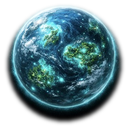
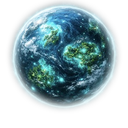
Re-crop planet sprites: auto-detect center, tighter mask, no black edges
Uses brightness detection to find actual planet bounds,
crops 12% tighter with 4px Gaussian blur feathering.

https://claude.ai/code/session_01PBir98Ya7NdR4RQoY2zhNx

Changed region(s): [[0.0312, 0.0, 0.9688, 0.9688], [0.25, 0.1562, 0.2812, 0.1875]]

diff --git a/orbita-web/_expo/static/js/web/index-305c4bb69cac22a558a0af5c1d3144f3.js b/orbita-web/_expo/static/js/web/index-305c4bb69cac22a558a0af5c1d3144f3.js
@@ -700,12 +700,12 @@ __d(function(g,r,_i,_a,m,e,d){"use strict";Object.defineProperty(e,'__esModule',
 __d(function(g,r,i,a,m,_e,d){"use strict";function e(e){return e&&e.__esModule?e:{default:e}}Object.defineProperty(_e,'__esModule',{value:!0}),Object.defineProperty(_e,"StarCore",{enumerable:!0,get:function(){return S}});var t=r(d[0]),o=e(r(d[1])),s=r(d[2]),n=e(s),l=r(d[3]),c=e(l),u=r(d[4]),p=r(d[5]);const f={code:"function StarCoreTsx1(){const{centerX,displaySize,centerY,scale}=this.__closure;return{transform:[{translateX:centerX-displaySize/2},{translateY:centerY-displaySize/2},{scale:scale.value}]};}"},h={code:"function StarCoreTsx2(){const{centerX,displaySize,centerY,phase,glowScale}=this.__closure;return{position:'absolute',left:centerX-displaySize*0.75,top:centerY-displaySize*0.75,width:displaySize*1.5,height:displaySize*1.5,borderRadius:displaySize*0.75,backgroundColor:phase.glowColor,opacity:0.15,transform:[{scale:glowScale.value}]};}"},S=({centerX:e,centerY:o,timeRatio:S})=>{const w=(0,s.useSharedValue)(1.3),_=(0,s.useSharedValue)(1),C=(0,u.getStarPhase)(S);(0,t.useEffect)(()=>{const e=S>.5?.12:S>.2?.08:.15,t=S>.5?1800:S>.2?800:300,o=S>.5?2200:S>.2?1e3:400;w.value=(0,s.withRepeat)((0,s.withSequence)((0,s.withTiming)(C.scale+e,{duration:t,easing:s.Easing.inOut(s.Easing.ease)}),(0,s.withTiming)(C.scale-.5*e,{duration:o,easing:s.Easing.inOut(s.Easing.ease)})),-1,!0)},[Math.round(10*S)]),(0,t.useEffect)(()=>{const e=S>.5?.15:.08,t=S>.5?3e3:1500;_.value=(0,s.withRepeat)((0,s.withSequence)((0,s.withTiming)(1+e,{duration:t,easing:s.Easing.inOut(s.Easing.ease)}),(0,s.withTiming)(1-.3*e,{duration:.8*t,easing:s.Easing.inOut(s.Easing.ease)})),-1,!0)},[Math.round(5*S)]);const x=2*u.STAR_SIZE,j=(0,s.useAnimatedStyle)((function(){const t=()=>({transform:[{translateX:e-x/2},{translateY:o-x/2},{scale:w.value}]});return t.__closure={centerX:e,displaySize:x,centerY:o,scale:w},t.__workletHash=3852345038859,t.__initData=f,t})());(0,s.useAnimatedStyle)((function(){const t=()=>({position:'absolute',left:e-.75*x,top:o-.75*x,width:1.5*x,height:1.5*x,borderRadius:.75*x,backgroundColor:C.glowColor,opacity:.15,transform:[{scale:_.value}]});return t.__closure={centerX:e,displaySize:x,centerY:o,phase:C,glowScale:_},t.__workletHash=7692941488591,t.__initData=h,t})());return(0,p.jsx)(p.Fragment,{children:(0,p.jsx)(n.default.View,{style:[y.container,j,{width:x,height:x}],pointerEvents:"none",children:(0,p.jsxs)(c.default,{width:x,height:x,children:[(0,p.jsx)(l.Defs,{children:(0,p.jsxs)(l.RadialGradient,{id:"starGrad",cx:"50%",cy:"50%",r:"50%",children:[(0,p.jsx)(l.Stop,{offset:"0%",stopColor:"#ffffff",stopOpacity:"1"}),(0,p.jsx)(l.Stop,{offset:"15%",stopColor:C.color,stopOpacity:"1"}),(0,p.jsx)(l.Stop,{offset:"35%",stopColor:C.color,stopOpacity:"0.8"}),(0,p.jsx)(l.Stop,{offset:"55%",stopColor:C.glowColor,stopOpacity:"0.4"}),(0,p.jsx)(l.Stop,{offset:"75%",stopColor:C.glowColor,stopOpacity:"0.1"}),(0,p.jsx)(l.Stop,{offset:"100%",stopColor:C.glowColor,stopOpacity:"0"})]})}),(0,p.jsx)(l.Circle,{cx:x/2,cy:x/2,r:x/2,fill:"url(#starGrad)"})]})})})},y=o.default.create({container:{position:'absolute'}})},613,[36,44,302,583,611,352]);
 __d(function(g,r,_i,a,m,_e,d){"use strict";Object.defineProperty(_e,'__esModule',{value:!0}),Object.defineProperty(_e,"OrbitalRings",{enumerable:!0,get:function(){return i}}),r(d[0]);var t,e=r(d[1]),o=(t=e)&&t.__esModule?t:{default:t},n=r(d[2]),s=r(d[3]);const i=({centerX:t,centerY:i,width:l,height:c,activeSpokeAngle:u})=>{const f=new Set;for(const t of n.ORBIT_CONFIGS)for(let e=0;e<t.slotCount;e++)f.add(360*e/t.slotCount);const h=n.ORBIT_CONFIGS[n.ORBIT_CONFIGS.length-1].radius+30;return(0,s.jsxs)(o.default,{width:l,height:c,style:{position:'absolute',top:0,left:0},children:[Array.from(f).map(o=>{const n=o*Math.PI/180,l=null!=u&&Math.abs(o-u)<6;return(0,s.jsx)(e.Line,{x1:t,y1:i,x2:t+h*Math.cos(n),y2:i+h*Math.sin(n),stroke:l?'#ffd700':'rgba(255, 215, 0, 0.1)',strokeWidth:l?2:.5},`spoke-${o}`)}),n.ORBIT_CONFIGS.map((o,n)=>(0,s.jsx)(e.Circle,{cx:t,cy:i,r:o.radius,fill:"none",stroke:"rgba(255, 255, 255, 0.15)",strokeWidth:1},`orbit-${n}`))]})}},614,[36,583,611,352]);
 __d(function(g,r,i,a,m,_e,d){"use strict";function e(e){return e&&e.__esModule?e:{default:e}}Object.defineProperty(_e,'__esModule',{value:!0}),Object.defineProperty(_e,"PlanetView",{enumerable:!0,get:function(){return E}});var t=r(d[0]),n=e(r(d[1])),s=e(r(d[2])),l=r(d[3]),o=e(l),u=r(d[4]),c=r(d[5]),h=r(d[6]);const p={planet_red:r(d[7]),planet_green:r(d[8]),planet_blue:r(d[9]),planet_gold:r(d[10]),planet_pink:r(d[11]),planet_purple:r(d[12])},w={code:"function PlanetViewTsx1(){const{translateX,translateY,scaleVal,opacityVal}=this.__closure;return{transform:[{translateX:translateX.value},{translateY:translateY.value},{scale:scaleVal.value}],opacity:opacityVal.value};}"},_={code:"function PlanetViewTsx2(){const{glowOpacity}=this.__closure;return{opacity:glowOpacity.value};}"},f={code:"function PlanetViewTsx3(){const{spinRotation}=this.__closure;return{transform:[{rotate:spinRotation.value+\"deg\"}]};}"},E=({planet:e,centerX:n,centerY:E,rotationAngle:T,isSelected:S,isRemoving:y,isNew:I,isMatchable:x,isCollected:P,onTap:V})=>{const b=u.PLANET_CONFIGS[e.type],A=(0,c.getSlotPosition)(e.orbitIndex,e.slotIndex,n,E,T),N=(0,l.useSharedValue)(A.x-u.PLANET_SIZE/2),L=(0,l.useSharedValue)(A.y-u.PLANET_SIZE/2),Z=(0,l.useSharedValue)(I?0:1),R=(0,l.useSharedValue)(1),O=(0,l.useSharedValue)(0),j=(0,l.useSharedValue)(0);(0,t.useEffect)(()=>{const t=parseInt(e.id.replace('p',''),10)||1,n=8e3+t%7*1e3,s=t%2==0?360:-360;j.value=(0,l.withRepeat)((0,l.withTiming)(s,{duration:n,easing:l.Easing.linear}),-1,!1)},[e.id]);const C=(0,t.useRef)(e.orbitIndex),X=(0,t.useRef)(e.slotIndex);(0,t.useEffect)(()=>{const t=C.current!==e.orbitIndex||X.current!==e.slotIndex;C.current=e.orbitIndex,X.current=e.slotIndex;const n=A.x-u.PLANET_SIZE/2,s=A.y-u.PLANET_SIZE/2;t?(O.value=(0,l.withSequence)((0,l.withTiming)(1,{duration:100}),(0,l.withTiming)(1,{duration:400}),(0,l.withTiming)(0,{duration:200})),Z.value=(0,l.withSequence)((0,l.withTiming)(.7,{duration:100,easing:l.Easing.in(l.Easing.ease)}),(0,l.withTiming)(1.2,{duration:300,easing:l.Easing.out(l.Easing.ease)}),(0,l.withSpring)(1,{damping:8,stiffness:150})),N.value=(0,l.withTiming)(n,{duration:500,easing:l.Easing.bezier(.25,.1,.25,1)}),L.value=(0,l.withTiming)(s,{duration:500,easing:l.Easing.bezier(.25,.1,.25,1)})):(N.value=n,L.value=s)},[A.x,A.y,e.orbitIndex,e.slotIndex]),(0,t.useEffect)(()=>{S?(Z.value=(0,l.withSpring)(1.15,{damping:12}),O.value=(0,l.withTiming)(.8,{duration:200})):y||I||P||(Z.value=(0,l.withSpring)(1,{damping:12}),O.value=(0,l.withTiming)(0,{duration:200}))},[S]),(0,t.useEffect)(()=>{S||P||y||(O.value=(0,l.withTiming)(0,{duration:200}))},[S,P,y]),(0,t.useEffect)(()=>{P&&(Z.value=(0,l.withSpring)(1.25,{damping:10}),O.value=(0,l.withTiming)(1,{duration:100}))},[P]),(0,t.useEffect)(()=>{y&&(Z.value=(0,l.withTiming)(1.5,{duration:300,easing:l.Easing.out(l.Easing.ease)}),R.value=(0,l.withTiming)(0,{duration:400}))},[y]),(0,t.useEffect)(()=>{I&&(R.value=0,Z.value=0,R.value=(0,l.withDelay)(400,(0,l.withTiming)(1,{duration:300})),Z.value=(0,l.withDelay)(400,(0,l.withSpring)(1,{damping:10,stiffness:120})))},[I]);const Y=(0,l.useAnimatedStyle)((function(){const e=()=>({transform:[{translateX:N.value},{translateY:L.value},{scale:Z.value}],opacity:R.value});return e.__closure={translateX:N,translateY:L,scaleVal:Z,opacityVal:R},e.__workletHash=3929405362686,e.__initData=w,e})()),k=(0,l.useAnimatedStyle)((function(){const e=()=>({opacity:O.value});return e.__closure={glowOpacity:O},e.__workletHash=495692607085,e.__initData=_,e})()),D=(0,l.useAnimatedStyle)((function(){const e=()=>({transform:[{rotate:`${j.value}deg`}]});return e.__closure={spinRotation:j},e.__workletHash=3384046141303,e.__initData=f,e})()),M=p[b.sprite];return(0,h.jsxs)(o.default.View,{style:[v.planetContainer,Y],children:[(0,h.jsx)(o.default.View,{style:[v.glow,{backgroundColor:b.color,shadowColor:b.color},k]}),(0,h.jsx)(o.default.View,{style:D,children:(0,h.jsx)(s.default,{source:M,style:v.planetImage,resizeMode:"cover"})})]})},v=n.default.create({planetContainer:{position:'absolute',width:u.PLANET_SIZE,height:u.PLANET_SIZE,justifyContent:'center',alignItems:'center'},planetImage:{width:u.PLANET_SIZE,height:u.PLANET_SIZE,borderRadius:u.PLANET_SIZE/2},glow:{position:'absolute',width:u.PLANET_SIZE+16,height:u.PLANET_SIZE+16,borderRadius:(u.PLANET_SIZE+16)/2,opacity:0,shadowOffset:{width:0,height:0},shadowOpacity:1,shadowRadius:8,elevation:8}})},615,[36,44,176,302,611,612,352,616,617,618,619,620,621]);
-__d(function(g,r,i,a,m,e,d){m.exports={uri:"/PATRIOTS/orbita-web/assets/assets/planet_red.d8aa18ee1c9f9bb313217dbb454cd959.png",width:128,height:128}},616,[]);
-__d(function(g,r,i,a,m,e,d){m.exports={uri:"/PATRIOTS/orbita-web/assets/assets/planet_green.afaf0b4114ce2d40e47d9a3c2a4c39c2.png",width:128,height:128}},617,[]);
-__d(function(g,r,i,a,m,e,d){m.exports={uri:"/PATRIOTS/orbita-web/assets/assets/planet_blue.fe18db6285a19934b58350dc92bd0161.png",width:128,height:128}},618,[]);
-__d(function(g,r,i,a,m,e,d){m.exports={uri:"/PATRIOTS/orbita-web/assets/assets/planet_gold.972234e1780b710f61460b01ec40d408.png",width:128,height:128}},619,[]);
-__d(function(g,r,i,a,m,e,d){m.exports={uri:"/PATRIOTS/orbita-web/assets/assets/planet_pink.cc676eeadaac4e34b0664794ebf7d298.png",width:128,height:128}},620,[]);
-__d(function(g,r,i,a,m,e,d){m.exports={uri:"/PATRIOTS/orbita-web/assets/assets/planet_purple.92e26862746d73bdef989d7c18c10f14.png",width:128,height:128}},621,[]);
+__d(function(g,r,i,a,m,e,d){m.exports={uri:"/PATRIOTS/orbita-web/assets/assets/planet_red.ae335ffbfde4b92c5aa32fa1497b621f.png",width:128,height:128}},616,[]);
+__d(function(g,r,i,a,m,e,d){m.exports={uri:"/PATRIOTS/orbita-web/assets/assets/planet_green.bf009b3347f29a2c4719fec06b3c57d1.png",width:128,height:128}},617,[]);
+__d(function(g,r,i,a,m,e,d){m.exports={uri:"/PATRIOTS/orbita-web/assets/assets/planet_blue.c292ca8babff74ca34d07eb3ea8e4ed3.png",width:128,height:128}},618,[]);
+__d(function(g,r,i,a,m,e,d){m.exports={uri:"/PATRIOTS/orbita-web/assets/assets/planet_gold.07acb73ddf343204b82ad747fc96df08.png",width:128,height:128}},619,[]);
+__d(function(g,r,i,a,m,e,d){m.exports={uri:"/PATRIOTS/orbita-web/assets/assets/planet_pink.37bcc6a28bbcdd98ae9d89c64e051df6.png",width:128,height:128}},620,[]);
+__d(function(g,r,i,a,m,e,d){m.exports={uri:"/PATRIOTS/orbita-web/assets/assets/planet_purple.2ce8436d75034b3a8aeffed49e9ccdf3.png",width:128,height:128}},621,[]);
 __d(function(g,_r,_i,a,m,_e,d){"use strict";function e(e){return e&&e.__esModule?e:{default:e}}Object.defineProperty(_e,'__esModule',{value:!0}),Object.defineProperty(_e,"PowerUpPanel",{enumerable:!0,get:function(){return x}});var t=_r(d[0]),r=e(t),o=e(_r(d[1])),s=e(_r(d[2])),n=e(_r(d[3])),i=e(_r(d[4])),l=_r(d[5]),c=e(l),u=_r(d[6]),p=e(u),h=_r(d[7]),f=_r(d[8]);const b=({type:e,size:t})=>{const o=t/2;switch(e){case h.PowerUpType.STAR_FREEZE:return(0,f.jsxs)(p.default,{width:t,height:t,children:[[0,60,120].map(e=>{const t=e*Math.PI/180,s=Math.cos(t),n=Math.sin(t),i=.8*o;return(0,f.jsxs)(r.default.Fragment,{children:[(0,f.jsx)(u.Line,{x1:o-i*s,y1:o-i*n,x2:o+i*s,y2:o+i*n,stroke:"#3498db",strokeWidth:2}),(0,f.jsx)(u.Line,{x1:o+.5*i*s,y1:o+.5*i*n,x2:o+.5*i*s+4*Math.cos(t+.8),y2:o+.5*i*n+4*Math.sin(t+.8),stroke:"#3498db",strokeWidth:1.5})]},e)}),(0,f.jsx)(u.Circle,{cx:o,cy:o,r:2,fill:"#3498db"})]});case h.PowerUpType.NOVA_PULSE:{const e=[];for(let t=0;t<12;t++){const r=t%2==0?.9*o:.4*o,s=(30*t-90)*(Math.PI/180);e.push(`${o+r*Math.cos(s)},${o+r*Math.sin(s)}`)}return(0,f.jsx)(p.default,{width:t,height:t,children:(0,f.jsx)(u.Polygon,{points:e.join(' '),fill:"#f1c40f"})})}case h.PowerUpType.ANTIGRAVITY:return(0,f.jsxs)(p.default,{width:t,height:t,children:[(0,f.jsx)(u.Path,{d:`M ${o-6} ${o-8}\n                Q ${o+8} ${o-12} ${o+6} ${o-2}\n                L ${o+9} ${o-5} L ${o+3} ${o-6} L ${o+6} ${o-2}`,stroke:"#2ecc71",strokeWidth:2,fill:"none",strokeLinecap:"round"}),(0,f.jsx)(u.Path,{d:`M ${o+6} ${o+8}\n                Q ${o-8} ${o+12} ${o-6} ${o+2}\n                L ${o-9} ${o+5} L ${o-3} ${o+6} L ${o-6} ${o+2}`,stroke:"#2ecc71",strokeWidth:2,fill:"none",strokeLinecap:"round"})]})}},y={code:"function PowerUpPanelTsx1(){const{pulseScale}=this.__closure;return{transform:[{scale:pulseScale.value}]};}"},$=({powerUp:e,onPress:r})=>{const o=(0,l.useSharedValue)(1);(0,t.useEffect)(()=>{e.used||e.active||(o.value=(0,l.withRepeat)((0,l.withTiming)(1.05,{duration:1e3}),-1,!0))},[e.used,e.active]);const i=(0,l.useAnimatedStyle)((function(){const e=()=>({transform:[{scale:o.value}]});return e.__closure={pulseScale:o},e.__workletHash=0xdf91be595da,e.__initData=y,e})()),u={[h.PowerUpType.STAR_FREEZE]:'FREEZE',[h.PowerUpType.NOVA_PULSE]:'PULSE',[h.PowerUpType.ANTIGRAVITY]:'SHAKE'}[e.type];return(0,f.jsx)(c.default.View,{style:i,children:(0,f.jsxs)(n.default,{style:[P.button,e.used&&P.buttonUsed,e.active&&P.buttonActive],onPress:r,disabled:e.used,activeOpacity:.7,children:[(0,f.jsx)(b,{type:e.type,size:28}),(0,f.jsx)(s.default,{style:[P.label,e.used&&P.labelUsed],children:e.used?e.active?`${e.remainingTime}s`:'USED':u})]})})},x=({powerUps:e,onUsePowerUp:t})=>(0,f.jsx)(o.default,{style:P.container,children:e.map(e=>(0,f.jsx)($,{powerUp:e,onPress:()=>t(e.type)},e.type))}),P=i.default.create({container:{flexDirection:'row',justifyContent:'space-evenly',alignItems:'center',paddingVertical:8},button:{width:70,height:70,borderRadius:35,backgroundColor:'rgba(255,255,255,0.08)',justifyContent:'center',alignItems:'center',borderWidth:1,borderColor:'rgba(255,255,255,0.2)'},buttonUsed:{backgroundColor:'rgba(255,255,255,0.03)',borderColor:'rgba(255,255,255,0.08)',opacity:.5},buttonActive:{borderColor:'#3498db',borderWidth:2,opacity:1},label:{color:'#f5e6c8',fontSize:9,fontWeight:'700',marginTop:2},labelUsed:{color:'rgba(255,255,255,0.3)'}})},622,[36,142,172,173,44,302,583,611,352]);
 __d(function(g,r,i,a,m,_e,d){"use strict";function e(e){return e&&e.__esModule?e:{default:e}}Object.defineProperty(_e,'__esModule',{value:!0}),Object.defineProperty(_e,"SupernovaExplosion",{enumerable:!0,get:function(){return _}});var t=r(d[0]),n=e(r(d[1])),o=e(r(d[2])),s=r(d[3]),l=e(s),u=r(d[4]);const{width:c,height:h}=o.default.get('window'),f={code:"function SupernovaExplosionTsx1(){const{centerX,centerY,coreScale,coreOpacity}=this.__closure;return{position:'absolute',left:centerX-25,top:centerY-25,width:50,height:50,borderRadius:25,backgroundColor:'#ffffff',transform:[{scale:coreScale.value}],opacity:coreOpacity.value,shadowColor:'#ffd700',shadowOffset:{width:0,height:0},shadowOpacity:1,shadowRadius:30};}"},p={code:"function SupernovaExplosionTsx2(){const{centerX,centerY,ringScale,ringOpacity}=this.__closure;return{position:'absolute',left:centerX-30,top:centerY-30,width:60,height:60,borderRadius:30,borderWidth:3,borderColor:'#ffd700',backgroundColor:'transparent',transform:[{scale:ringScale.value}],opacity:ringOpacity.value};}"},w={code:"function SupernovaExplosionTsx3(){const{centerX,centerY,ring2Scale,ring2Opacity}=this.__closure;return{position:'absolute',left:centerX-30,top:centerY-30,width:60,height:60,borderRadius:30,borderWidth:2,borderColor:'#ff6600',backgroundColor:'transparent',transform:[{scale:ring2Scale.value}],opacity:ring2Opacity.value};}"},y={code:"function SupernovaExplosionTsx4(){const{StyleSheet,flashOpacity}=this.__closure;return{...StyleSheet.absoluteFillObject,backgroundColor:'#ffffff',opacity:flashOpacity.value};}"},S={code:"function SupernovaExplosionTsx5(){const{centerY,textOpacity,textScale}=this.__closure;return{position:'absolute',left:0,right:0,top:centerY-50,alignItems:'center',opacity:textOpacity.value,transform:[{scale:textScale.value}]};}"},_=({centerX:e,centerY:o})=>{const c=(0,s.useSharedValue)(1),h=(0,s.useSharedValue)(1),_=(0,s.useSharedValue)(0),v=(0,s.useSharedValue)(0),x=(0,s.useSharedValue)(0),E=(0,s.useSharedValue)(0),O=(0,s.useSharedValue)(0),T=(0,s.useSharedValue)(0),D=(0,s.useSharedValue)(.5);(0,t.useEffect)(()=>{c.value=(0,s.withSequence)((0,s.withTiming)(3,{duration:300,easing:s.Easing.out(s.Easing.ease)}),(0,s.withTiming)(8,{duration:500,easing:s.Easing.out(s.Easing.ease)}),(0,s.withTiming)(15,{duration:1500,easing:s.Easing.out(s.Easing.ease)})),h.value=(0,s.withSequence)((0,s.withTiming)(1,{duration:300}),(0,s.withDelay)(500,(0,s.withTiming)(0,{duration:1500}))),_.value=(0,s.withDelay)(200,(0,s.withTiming)(12,{duration:1500,easing:s.Easing.out(s.Easing.ease)})),v.value=(0,s.withSequence)((0,s.withDelay)(200,(0,s.withTiming)(.8,{duration:200})),(0,s.withDelay)(800,(0,s.withTiming)(0,{duration:500}))),x.value=(0,s.withDelay)(600,(0,s.withTiming)(15,{duration:2e3,easing:s.Easing.out(s.Easing.ease)})),E.value=(0,s.withSequence)((0,s.withDelay)(600,(0,s.withTiming)(.6,{duration:200})),(0,s.withDelay)(1e3,(0,s.withTiming)(0,{duration:800}))),O.value=(0,s.withSequence)((0,s.withTiming)(.9,{duration:150}),(0,s.withTiming)(0,{duration:800})),T.value=(0,s.withDelay)(1500,(0,s.withTiming)(1,{duration:800})),D.value=(0,s.withDelay)(1500,(0,s.withTiming)(1,{duration:600,easing:s.Easing.out(s.Easing.ease)}))},[]);const C=(0,s.useAnimatedStyle)((function(){const t=()=>({position:'absolute',left:e-25,top:o-25,width:50,height:50,borderRadius:25,backgroundColor:'#ffffff',transform:[{scale:c.value}],opacity:h.value,shadowColor:'#ffd700',shadowOffset:{width:0,height:0},shadowOpacity:1,shadowRadius:30});return t.__closure={centerX:e,centerY:o,coreScale:c,coreOpacity:h},t.__workletHash=0xf00015b18c0,t.__initData=f,t})()),V=(0,s.useAnimatedStyle)((function(){const t=()=>({position:'absolute',left:e-30,top:o-30,width:60,height:60,borderRadius:30,borderWidth:3,borderColor:'#ffd700',backgroundColor:'transparent',transform:[{scale:_.value}],opacity:v.value});return t.__closure={centerX:e,centerY:o,ringScale:_,ringOpacity:v},t.__workletHash=3484824752794,t.__initData=p,t})()),j=(0,s.useAnimatedStyle)((function(){const t=()=>({position:'absolute',left:e-30,top:o-30,width:60,height:60,borderRadius:30,borderWidth:2,borderColor:'#ff6600',backgroundColor:'transparent',transform:[{scale:x.value}],opacity:E.value});return t.__closure={centerX:e,centerY:o,ring2Scale:x,ring2Opacity:E},t.__workletHash=5831661721641,t.__initData=w,t})()),k=(0,s.useAnimatedStyle)((function(){const e=()=>Object.assign({},n.default.absoluteFillObject,{backgroundColor:'#ffffff',opacity:O.value});return e.__closure={StyleSheet:n.default,flashOpacity:O},e.__workletHash=2255849780621,e.__initData=y,e})()),Y=(0,s.useAnimatedStyle)((function(){const e=()=>({position:'absolute',left:0,right:0,top:o-50,alignItems:'center',opacity:T.value,transform:[{scale:D.value}]});return e.__closure={centerY:o,textOpacity:T,textScale:D},e.__workletHash=0x99544c0ae7a,e.__initData=S,e})());return(0,u.jsxs)(u.Fragment,{children:[(0,u.jsx)(l.default.View,{style:k,pointerEvents:"none"}),(0,u.jsx)(l.default.View,{style:V,pointerEvents:"none"}),(0,u.jsx)(l.default.View,{style:j,pointerEvents:"none"}),(0,u.jsx)(l.default.View,{style:C,pointerEvents:"none"}),(0,u.jsxs)(l.default.View,{style:Y,pointerEvents:"none",children:[(0,u.jsx)(l.default.Text,{style:b.title,children:"STAR EXPLODED"}),(0,u.jsx)(l.default.Text,{style:b.subtitle,children:"The system is lost..."})]})]})},b=n.default.create({title:{fontSize:36,fontWeight:'900',color:'#ff4400',letterSpacing:4,textAlign:'center',textShadowColor:'#ff0000',textShadowOffset:{width:0,height:0},textShadowRadius:20},subtitle:{fontSize:16,color:'rgba(255, 150, 100, 0.7)',letterSpacing:2,marginTop:8,textAlign:'center'}})},623,[36,44,180,302,352]);
 __d(function(g,_r,_i,a,m,e,d){"use strict";Object.defineProperty(e,'__esModule',{value:!0}),e.useGameState=function(){const[i,l]=(0,t.useState)({planets:[],rescued:0,rescueTarget:n.RESCUE_TARGET,swapsLeft:n.INITIAL_SWAPS,selectedPlanetId:null,phase:'title',powerUps:c.map(t=>Object.assign({},t)),combo:0,bestRescued:0,timeLeft:n.LEVEL_TIME,totalTime:n.LEVEL_TIME}),[u,o]=(0,t.useState)([0,0,0]),[p,b]=(0,t.useState)(!1),[I,S]=(0,t.useState)(!1),[w,f]=(0,t.useState)({active:!1,orbitIndex:-1,collectedIds:[],matchType:null}),[T,y]=(0,t.useState)(new Set),[O,h]=(0,t.useState)([]),[j,P]=(0,t.useState)([]),[E,U]=(0,t.useState)(new Set),[R,v]=(0,t.useState)(new Set),x=(0,t.useRef)(!1),L=(0,t.useRef)(!1),A=(0,t.useRef)(null),_=(0,t.useRef)(i);_.current=i;const M=(0,t.useRef)(u);M.current=u;const k=(0,t.useCallback)(()=>{if('playing'!==_.current.phase||x.current)return;const t=M.current,s=(0,r.findAlignedGroups)(_.current.planets,t,28);y(s.ids),h(s.triples),P((0,r.findProximityPairs)(_.current.planets,t))},[]),C=(0,t.useRef)(0),V=(0,t.useCallback)(t=>{if('playing'===_.current.phase&&!I){if(C.current+=t,C.current>5){C.current=0;const t=_.current.timeLeft/_.current.totalTime;(0,s.setMusicUrgency)(t)}l(n=>{const r=Math.max(0,n.timeLeft-t);return r<=0&&'playing'===n.phase?((0,s.stopMusic)(),s.Sounds.gameOver(),setTimeout(()=>{l(t=>Object.assign({},t,{phase:'gameover',bestRescued:Math.max(t.bestRescued,t.rescued)}))},4e3),Object.assign({},n,{timeLeft:0,phase:'exploding'})):Object.assign({},n,{timeLeft:r})})}},[I]),G=(0,t.useCallback)(()=>{const t=(0,r.generateBoard)();A.current&&clearInterval(A.current),L.current=!1,s.Sounds.gameStart(),(0,s.startMusic)(),l({planets:t,rescued:0,rescueTarget:n.RESCUE_TARGET,swapsLeft:n.INITIAL_SWAPS,selectedPlanetId:null,phase:'playing',powerUps:c.map(t=>Object.assign({},t)),combo:0,bestRescued:_.current.bestRescued,timeLeft:n.LEVEL_TIME,totalTime:n.LEVEL_TIME}),y(new Set),h([]),P([]),U(new Set),v(new Set),o([0,0,0]),S(!1),b(!1),f({active:!1,orbitIndex:-1,collectedIds:[],matchType:null}),x.current=!1},[]),N=(0,t.useCallback)(t=>{'playing'!==_.current.phase||x.current||(b(!0),f({active:!0,orbitIndex:t.orbitIndex,collectedIds:[t.id],matchType:t.type}),l(t=>Object.assign({},t,{selectedPlanetId:null})))},[]),F=(0,t.useCallback)(t=>{if(!w.active)return;if(t.type!==w.matchType||w.collectedIds.includes(t.id))return;const s=_.current.planets.filter(t=>w.collectedIds.includes(t.id));new Set(s.map(t=>t.orbitIndex)).has(t.orbitIndex)||f(s=>Object.assign({},s,{collectedIds:[...s.collectedIds,t.id]}))},[w]),W=(0,t.useCallback)(()=>{if(!w.active)return void b(!1);const t=_.current.planets.filter(t=>w.collectedIds.includes(t.id)),n=T,c=t.every(t=>n.has(t.id));if((0,r.isValidSwipe)(t)&&c){x.current=!0;const n=new Set(w.collectedIds),c=t.length,i=_.current.combo+1;i>=2?s.Sounds.comboMatch(i):s.Sounds.match(),U(n),setTimeout(()=>{l(t=>{const l=t.planets.filter(t=>!n.has(t.id));let u=(0,r.biasedFillEmptySlots)(l);const o=new Set(u.filter(t=>!l.find(s=>s.id===t.id)).map(t=>t.id));v(o),U(new Set),s.Sounds.spawn();const p=t.rescued+c;return p>=t.rescueTarget?((0,s.stopMusic)(),s.Sounds.gameStart(),Object.assign({},t,{planets:u,rescued:p,combo:i,phase:'won',bestRescued:Math.max(t.bestRescued,p)})):Object.assign({},t,{planets:u,rescued:p,combo:i})}),setTimeout(()=>{v(new Set),x.current=!1,L.current||S(!1)},500)},500)}else l(t=>Object.assign({},t,{combo:0}));b(!1),f({active:!1,orbitIndex:-1,collectedIds:[],matchType:null})},[w,T]),Y=(0,t.useCallback)(t=>{if('playing'!==_.current.phase||x.current)return;if(p)return;const n=_.current.selectedPlanetId;if(!n)return s.Sounds.select(),void l(s=>Object.assign({},s,{selectedPlanetId:t.id}));if(n===t.id)return s.Sounds.deselect(),void l(t=>Object.assign({},t,{selectedPlanetId:null}));const c=_.current.planets.find(t=>t.id===n);c&&(c.orbitIndex!==t.orbitIndex?_.current.swapsLeft<=0?l(t=>Object.assign({},t,{selectedPlanetId:null})):(0,r.canSwapPlanets)(c,t,M.current)?(s.Sounds.swap(),l(s=>{const n=s.planets.map(s=>s.id===c.id?Object.assign({},s,{orbitIndex:t.orbitIndex,slotIndex:t.slotIndex}):s.id===t.id?Object.assign({},s,{orbitIndex:c.orbitIndex,slotIndex:c.slotIndex}):s);return Object.assign({},s,{planets:n,selectedPlanetId:null,swapsLeft:s.swapsLeft-1})})):l(s=>Object.assign({},s,{selectedPlanetId:t.id})):l(s=>Object.assign({},s,{selectedPlanetId:t.id})))},[p]),Z=(0,t.useCallback)(t=>{if('playing'!==_.current.phase)return;const r=_.current.powerUps.find(s=>s.type===t);if(r&&!r.used)switch(t){case n.PowerUpType.STAR_FREEZE:{s.Sounds.powerUp(),L.current=!0,S(!0),l(s=>Object.assign({},s,{powerUps:s.powerUps.map(s=>s.type===t?Object.assign({},s,{used:!0,active:!0,remainingTime:8}):s)}));let n=8;A.current=setInterval(()=>{n--,n<=0?(A.current&&clearInterval(A.current),L.current=!1,x.current||S(!1),l(s=>Object.assign({},s,{powerUps:s.powerUps.map(s=>s.type===t?Object.assign({},s,{active:!1,remainingTime:0}):s)}))):l(s=>Object.assign({},s,{powerUps:s.powerUps.map(s=>s.type===t?Object.assign({},s,{remainingTime:n}):s)}))},1e3);break}case n.PowerUpType.NOVA_PULSE:s.Sounds.powerUp(),l(s=>Object.assign({},s,{powerUps:s.powerUps.map(s=>s.type===t?Object.assign({},s,{used:!0}):s)}));break;case n.PowerUpType.ANTIGRAVITY:s.Sounds.shake(),l(s=>{const n=s.planets.map(t=>t.type);for(let t=n.length-1;t>0;t--){const s=Math.floor(Math.random()*(t+1));[n[t],n[s]]=[n[s],n[t]]}const r=s.planets.map((t,s)=>Object.assign({},t,{type:n[s]}));return Object.assign({},s,{planets:r,powerUps:s.powerUps.map(s=>s.type===t?Object.assign({},s,{used:!0}):s)})})}},[]);return{state:i,rotationAngles:u,isSwiping:p,isPaused:I,swipe:w,alignedIds:T,alignedTriples:O,proximityPairs:j,removingPlanetIds:E,newPlanetIds:R,startGame:G,selectPlanet:Y,onSwipeStart:N,onSwipeThrough:F,onSwipeEnd:W,usePowerUp:Z,setRotationAngles:o,updateIndicators:k,tickTimer:V}};var t=_r(d[0]),s=_r(d[1]),n=_r(d[2]),r=_r(d[3]);const c=[{type:n.PowerUpType.STAR_FREEZE,used:!1,active:!1},{type:n.PowerUpType.NOVA_PULSE,used:!1,active:!1},{type:n.PowerUpType.ANTIGRAVITY,used:!1,active:!1}]},624,[36,625,611,612]);

diff --git a/orbita-web/index.html b/orbita-web/index.html
@@ -32,6 +32,6 @@
     </noscript>
     <!-- The root element for your Expo app. -->
     <div id="root"></div>
-  <script src="/PATRIOTS/orbita-web/_expo/static/js/web/index-913da77ba71cb26be06b2b22ff6f55b3.js" defer></script>
+  <script src="/PATRIOTS/orbita-web/_expo/static/js/web/index-305c4bb69cac22a558a0af5c1d3144f3.js" defer></script>
 </body>
 </html>
